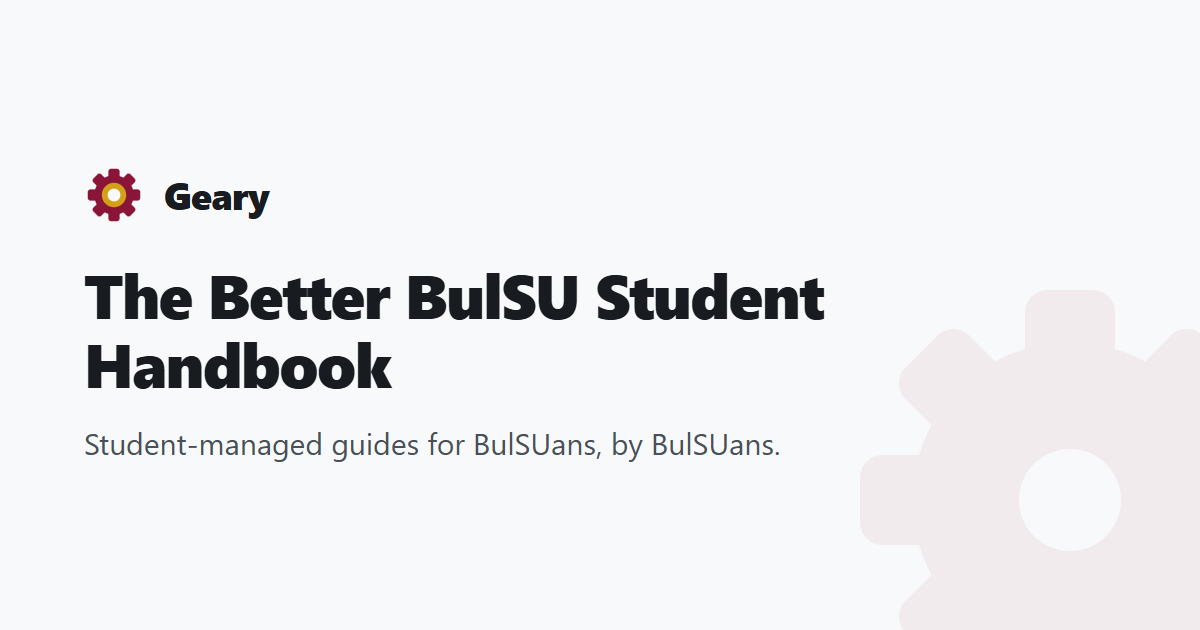
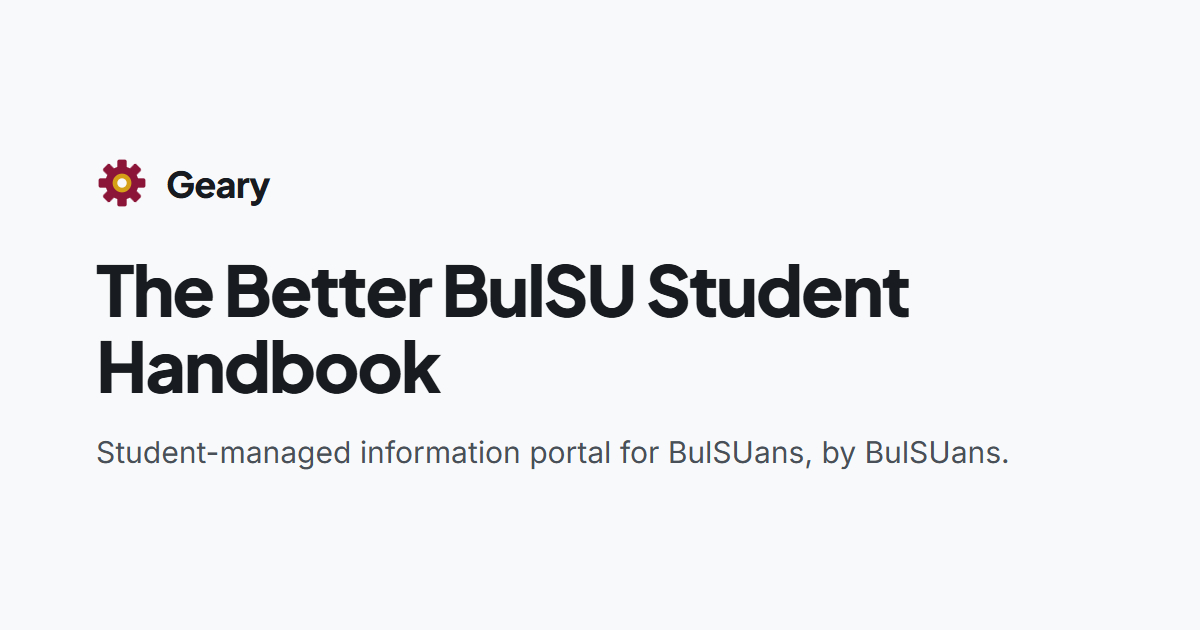
feat(articles,seo): add GWA calculator link, open external article links in new tab, and update OG image (#4)

diff --git a/src/content/articles/can-i-graduate-with-honors.md b/src/content/articles/can-i-graduate-with-honors.md
@@ -2,7 +2,7 @@
 title: "Can I Graduate With Honors?"
 category: "academics"
 subcategory: "Internships & Graduation"
-updatedDate: 2026-11-19
+updatedDate: 2026-11-20
 featured: false
 sources:
   - label: "Undergraduate Student Manual of Bulacan State University, BOR Resolution No. 85, Series of 2016"
@@ -44,6 +44,8 @@ In addition to GWA and grade floors, candidates must satisfy:
 2. Add all Grade Points and divide by total academic units (`Total Grade Points / Total Units = Final GWA`).
 
 For example, five 3-unit subjects with grades `1.00`, `1.00`, `1.00`, `1.25`, and `1.50` total `17.25` grade points across `15.0` units, giving a GWA of `1.150`. **NSTP is excluded from the GWA calculation**, though you still must pass it. Confirm rounding rules directly with the Office of the University Registrar if your GWA lands right on a boundary.
+
+You can use the [BulSU GWA Calculator](https://gwacalculatorbulsu.netlify.app/) to compute your GWA.
 
 ## Annual Gold Gear Awards (President's and Dean's Lists)
 
